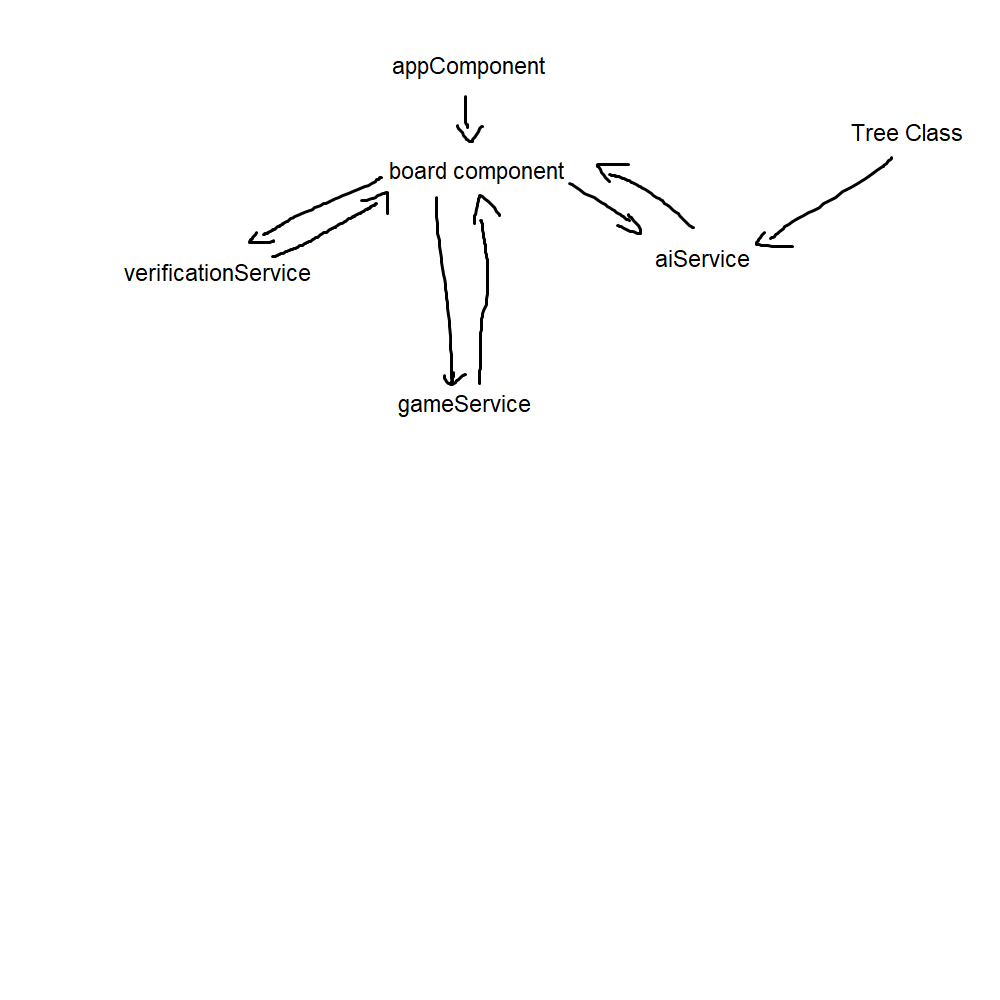
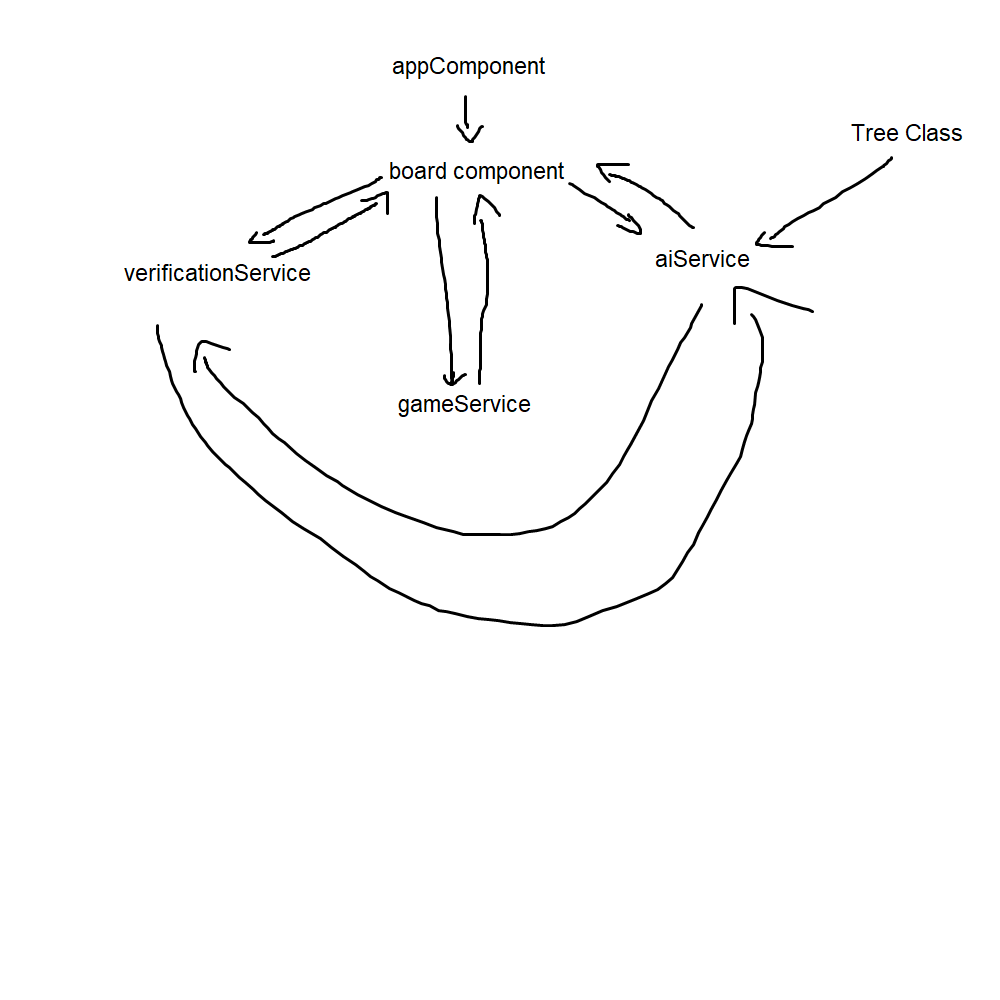
added dumbest ai eune

diff --git a/angular-cordova/src/app/board/board.component.ts b/angular-cordova/src/app/board/board.component.ts
@@ -12,13 +12,13 @@ export class BoardComponent implements OnInit {
   cells: string[][] = [];
   checker_to_move: [number, number];
 
-  is_human_rabbit: Boolean = false;
+  is_human_rabbit: Boolean = true;
   now_humans_turn: Boolean = true;
 
   constructor(private readonly verificationService: VerificationService, private readonly gameService: GameService,
     private readonly aiService: AiService) { }
 
-  GoClick(row_index: number, column_index: number) {
+  play(row_index: number, column_index: number) {
     this.verificationService.cleanup_cells(this.cells);
 
     const rabbit_cell: [number, number] = this.gameService
@@ -26,9 +26,25 @@ export class BoardComponent implements OnInit {
 
     const rabbitMoves: [number, number][] = this.verificationService.get_rabbit_moves(this.cells, rabbit_cell[0], rabbit_cell[1]);
     const game_state: number = this.gameService.check_game_state(this.cells, rabbitMoves);
+    if(game_state !== 0) {
+      window.location.reload();
+      return;
+    }
+
+    if(this.now_humans_turn) {
+      this.now_humans_turn = false;
+      this.activateAI();
+    }
+    else {
+      this.now_humans_turn = true;
+    }
   }
 
   checkerClick(row_index: number, column_index: number): void {
+    if(!this.now_humans_turn) {
+      return;
+    }
+
     this.verificationService.cleanup_cells(this.cells);
     const is_rabbit: Boolean = this.is_rabbit_clicked(row_index, column_index);
 
@@ -38,6 +54,14 @@ export class BoardComponent implements OnInit {
 
     this.verificationService.show_human_move_options(this.cells, row_index, column_index, is_rabbit);
     this.checker_to_move = [row_index, column_index];
+  }
+
+  private activateAI() {
+    const best_decision: [number, number][] = this.aiService
+    .calculate_best_decision(this.cells, this.gameService.get_rabbit_cell(), this.gameService.get_wolf_cells());
+
+    this.checker_to_move = best_decision[0];
+    this.play(best_decision[1][0], best_decision[1][1]);
   }
 
   ngOnInit(): void {

diff --git a/angular-cordova/src/app/board/services/game.service.ts b/angular-cordova/src/app/board/services/game.service.ts
@@ -4,9 +4,13 @@ import { Injectable } from '@angular/core';
   providedIn: 'root'
 })
 export class GameService {
-  private rabbit_cell: [number, number]
+  private rabbit_cell: [number, number];
+  private wolf_cells: [number, number][];
 
   constructor() { }
+
+  get_rabbit_cell(): [number, number] { return this.rabbit_cell; }
+  get_wolf_cells(): [number, number][] { return this.wolf_cells; }
 
   make_a_move(cells: string[][], cell_from: [number, number], cell_to: [number, number]): [number, number] {
     const txt_cell_from: string = cells[cell_from[0]][cell_from[1]];
@@ -15,6 +19,15 @@ export class GameService {
 
     if(cells[cell_to[0]][cell_to[1]] === "Black_White") {
       this.rabbit_cell = [cell_to[0], cell_to[1]];
+    }
+    else {
+      for(const wolf_cell of this.wolf_cells) {
+        if(wolf_cell[0] === cell_from[0] && (wolf_cell[1] === cell_from[1])) {
+          wolf_cell[0] = cell_to[0];
+          wolf_cell[1] = cell_to[1];
+          break;
+        }
+      }
     }
 
     return this.rabbit_cell;
@@ -59,6 +72,7 @@ export class GameService {
 
     cells[7][4] = "Black_White";
     this.rabbit_cell = [7,4];
+    this.wolf_cells = [[0,1],[0,3],[0,5],[0,7]];
   }
 
 }

diff --git a/angular-cordova/src/app/board/services/ai.service.ts b/angular-cordova/src/app/board/services/ai.service.ts
@@ -1,4 +1,5 @@
 import { Injectable } from '@angular/core';
+import { VerificationService } from './verification.service';
 
 @Injectable({
   providedIn: 'root'
@@ -8,7 +9,28 @@ export class AiService {
 
   set_ai_side(is_ai_rabbit: Boolean): void { this.is_ai_rabbit = is_ai_rabbit; }
 
-  constructor() { }
+  constructor(private readonly verificationService: VerificationService) { }
 
+  calculate_best_decision(cells: string[][], rabbit_cell: [number, number], wolf_cells: [number, number][]): [number, number][] {
+    if(this.is_ai_rabbit) {
+      const move_options = this.verificationService.get_rabbit_moves(cells, rabbit_cell[0], rabbit_cell[1]);
+      for(const option of move_options) {
+        if(option !== undefined) {
+          return [rabbit_cell, option]
+        }
+      }
+    }
+    else {
+      for(const wolf_cell of wolf_cells) {
+        const move_options = this.verificationService.get_wolf_moves(cells, wolf_cell[0], wolf_cell[1]);
+        for(const option of move_options) {
+          if(option !== undefined) {
+            return [wolf_cell, option]
+          }
+        }
+      }
+    }
 
+    return undefined;
+  }
 }

diff --git a/angular-cordova/src/app/board/board.component.html b/angular-cordova/src/app/board/board.component.html
@@ -5,7 +5,7 @@
         <button class="cell_black" *ngIf="cell === 'Black'">N</button>
         <button class="cell_black_white" (click)="checkerClick(row_index, column_index)" *ngIf="cell === 'Black_White'">W</button>
         <button class="cell_black_black" (click)="checkerClick(row_index, column_index)" *ngIf="cell === 'Black_Black'">B</button>
-        <button class="cell_option" (click)="GoClick(row_index, column_index)" *ngIf="cell === 'Option'">Go</button>
+        <button class="cell_option" (click)="play(row_index, column_index)" *ngIf="cell === 'Option'">Go</button>
         <button class="cell_black_selected_white" *ngIf="cell === 'Black_Selected_White'">W</button>
         <button class="cell_black_selected_black" *ngIf="cell === 'Black_Selected_Black'">B</button>
     </span>

diff --git a/angular-cordova/src/app/board/services/verification.service.ts b/angular-cordova/src/app/board/services/verification.service.ts
@@ -57,7 +57,7 @@ export class VerificationService {
     return [top_left, top_right, bottom_right, bottom_left];
   }
 
-  private get_wolf_moves(cells: string[][], row_index: number, column_index: number): [number, number][] {
+  get_wolf_moves(cells: string[][], row_index: number, column_index: number): [number, number][] {
     const bottom_right: [number, number] = row_index < 7 && column_index < 7 && cells[row_index + 1][column_index + 1] === "Black" 
     ? [row_index + 1, column_index + 1] : undefined;
 
